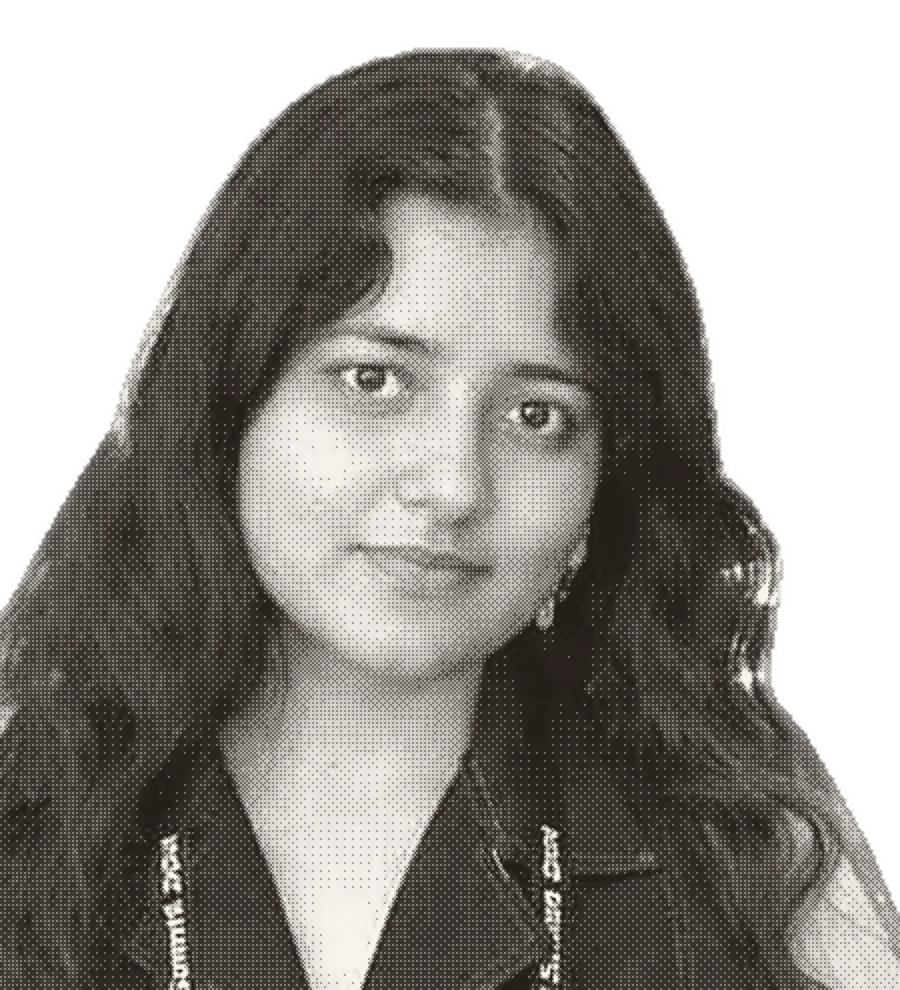
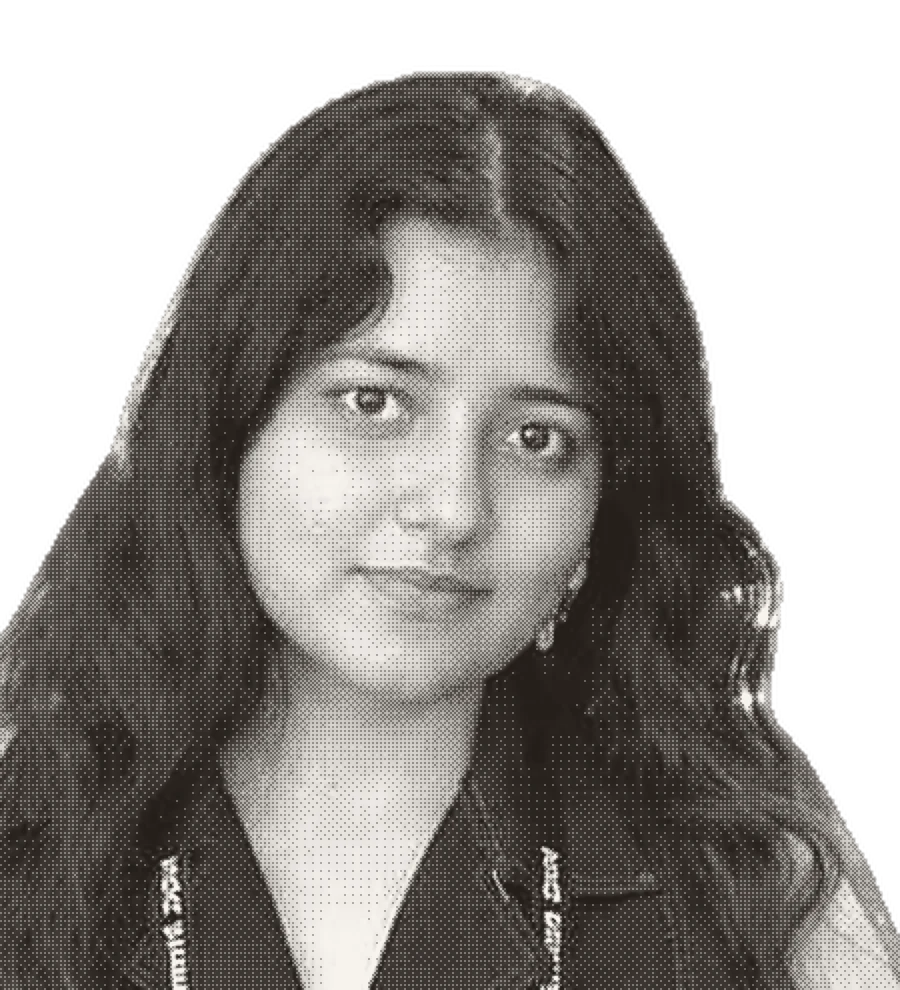
update: even head spacing on team portraits, Souradeep's links

diff --git a/data/team.ts b/data/team.ts
@@ -29,7 +29,7 @@ export const TEAM: TeamTier[] = [
       {
         name: "Arindam Majumder",
         role: "Co-founder & Content Lead",
-        portrait: "/assets/team/arindam-majumder.webp?v=10",
+        portrait: "/assets/team/arindam-majumder.webp?v=11",
         links: {
           x: "https://dub.sh/arindam-x",
           linkedin: "https://dub.sh/arindam-linkedin",
@@ -39,7 +39,7 @@ export const TEAM: TeamTier[] = [
       {
         name: "Amitesh Anand",
         role: "Co-founder & Operations Lead",
-        portrait: "/assets/team/amitesh-anand.webp?v=10",
+        portrait: "/assets/team/amitesh-anand.webp?v=11",
         links: {
           x: "https://x.com/astrodevil_",
           linkedin: "https://www.linkedin.com/in/amitesh1208/",
@@ -55,7 +55,7 @@ export const TEAM: TeamTier[] = [
       {
         name: "Shivay Lamba",
         role: "Founding Team",
-        portrait: "/assets/team/shivay-lamba.webp?v=10",
+        portrait: "/assets/team/shivay-lamba.webp?v=11",
         links: {
           x: "https://x.com/HowDevelop",
           linkedin: "https://in.linkedin.com/in/shivaylamba",
@@ -83,17 +83,22 @@ export const TEAM: TeamTier[] = [
       {
         name: "Kathank Raithatha",
         role: "Developer Advocate",
-        portrait: "/assets/team/kathank-raithatha.webp?v=10",
+        portrait: "/assets/team/kathank-raithatha.webp?v=11",
       },
       {
         name: "Bhavya Bhardwaj",
         role: "Social Media",
-        portrait: "/assets/team/bhavya-bhardwaj.webp?v=10",
+        portrait: "/assets/team/bhavya-bhardwaj.webp?v=11",
       },
       {
         name: "Souradeep Pradhan",
         role: "Developer",
-        portrait: "/assets/team/souradeep-pradhan.webp?v=10",
+        portrait: "/assets/team/souradeep-pradhan.webp?v=11",
+        links: {
+          x: "https://x.com/bysoura",
+          linkedin: "https://www.linkedin.com/in/souradeep-pradhan/",
+          website: "https://souradeep.me/",
+        },
       },
       { role: "Technical Writer", open: true },
       { role: "Video Producer", open: true },

diff --git a/components/about-us/team.tsx b/components/about-us/team.tsx
@@ -57,9 +57,9 @@ const socials = (member: Member) => [
 
 /* Pixel-dithered portraits, ink dots on a transparent ground. */
 const DITHER: Record<string, string> = {
-  "Arindam Majumder": "/assets/team/arindam-majumder.webp?v=10",
-  "Amitesh Anand": "/assets/team/amitesh-anand.webp?v=10",
-  "Shivay Lamba": "/assets/team/shivay-lamba.webp?v=10",
+  "Arindam Majumder": "/assets/team/arindam-majumder.webp?v=11",
+  "Amitesh Anand": "/assets/team/amitesh-anand.webp?v=11",
+  "Shivay Lamba": "/assets/team/shivay-lamba.webp?v=11",
 };
 
 function LeaderCard({ member }: { member: Member }) {
